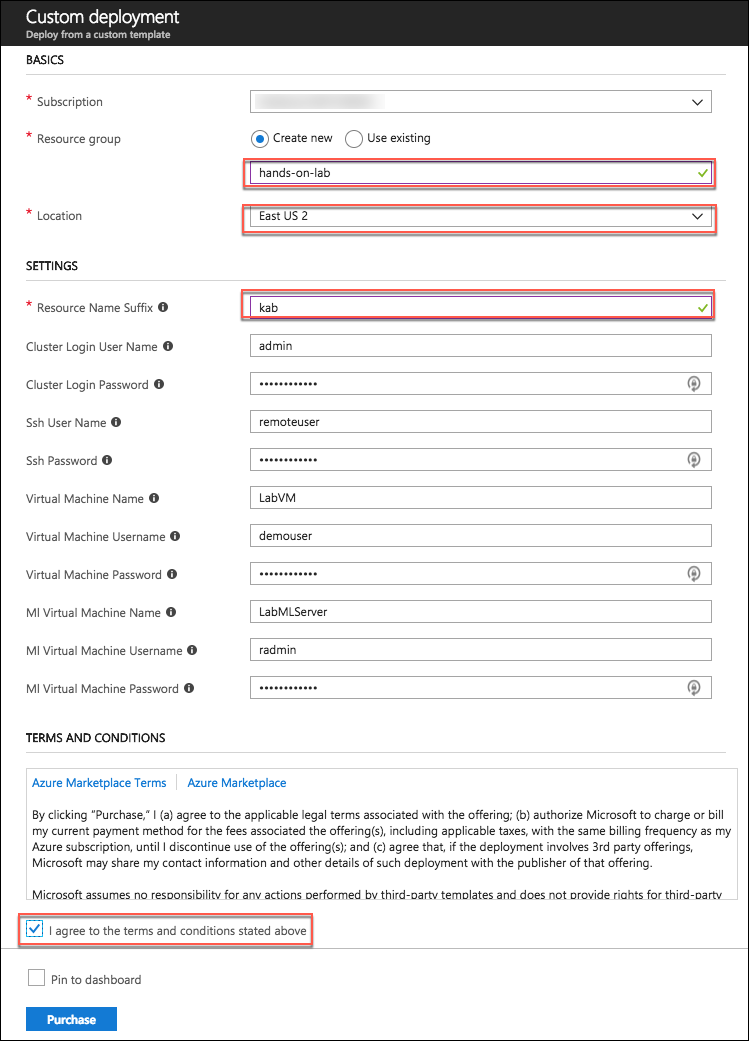
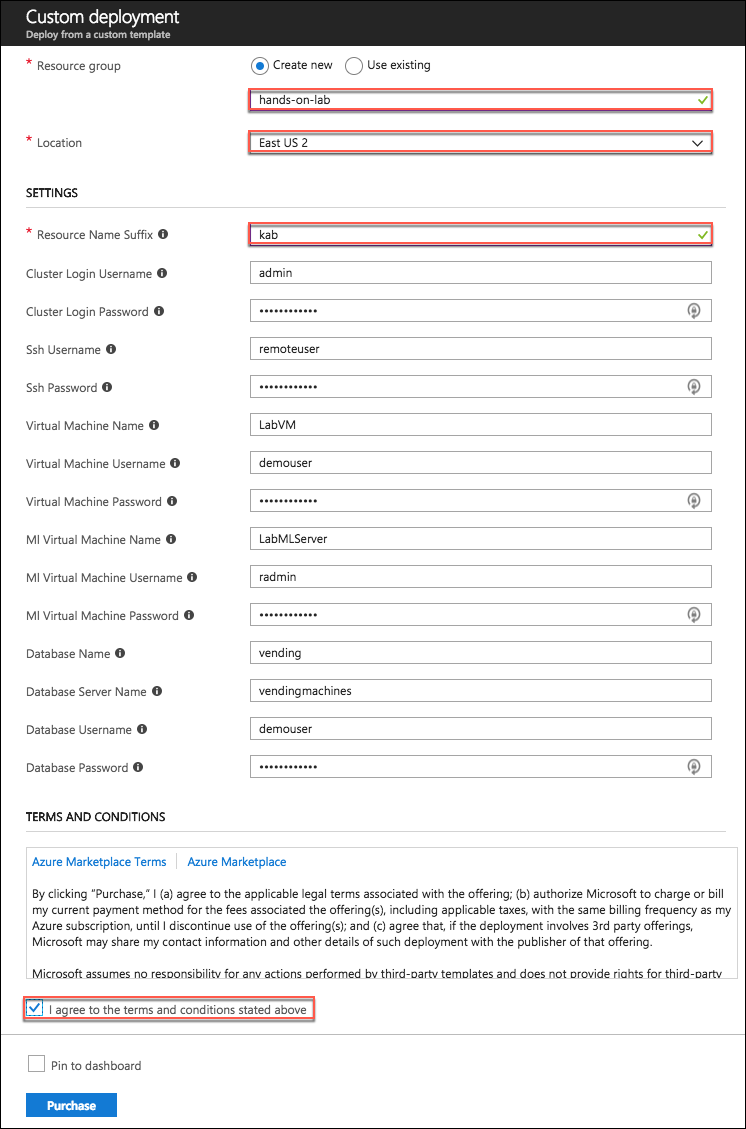
Updated ARM template deployment steps.

Changed region(s): [[0.0, 0.0, 1.0, 0.707], [0.0, 0.0922, 0.9866, 1.0]]

diff --git a/HOL/Setup.md b/HOL/Setup.md
@@ -21,10 +21,11 @@ In this task, you will run an Azure Resource Manager (ARM) template to provision
 * Windows Server 2016 (x64) virtual machine with the following software installed:
   * Visual Studio Community 2017
   * Power BI Desktop
-  * Windows Subsystem for Linux (WSL)
+  * Git Bash
   * R Tools for Visual Studio 2017 (RTVS)
 * Microsoft Machine Learning Server on Linux
 * Azure storage account for storing photos
+* Azure SQL Database
 
 > Note: If you want to review the steps for manually creating the resources provisioned by the ARM template, see [Appendix A](./appendix.md).
 
